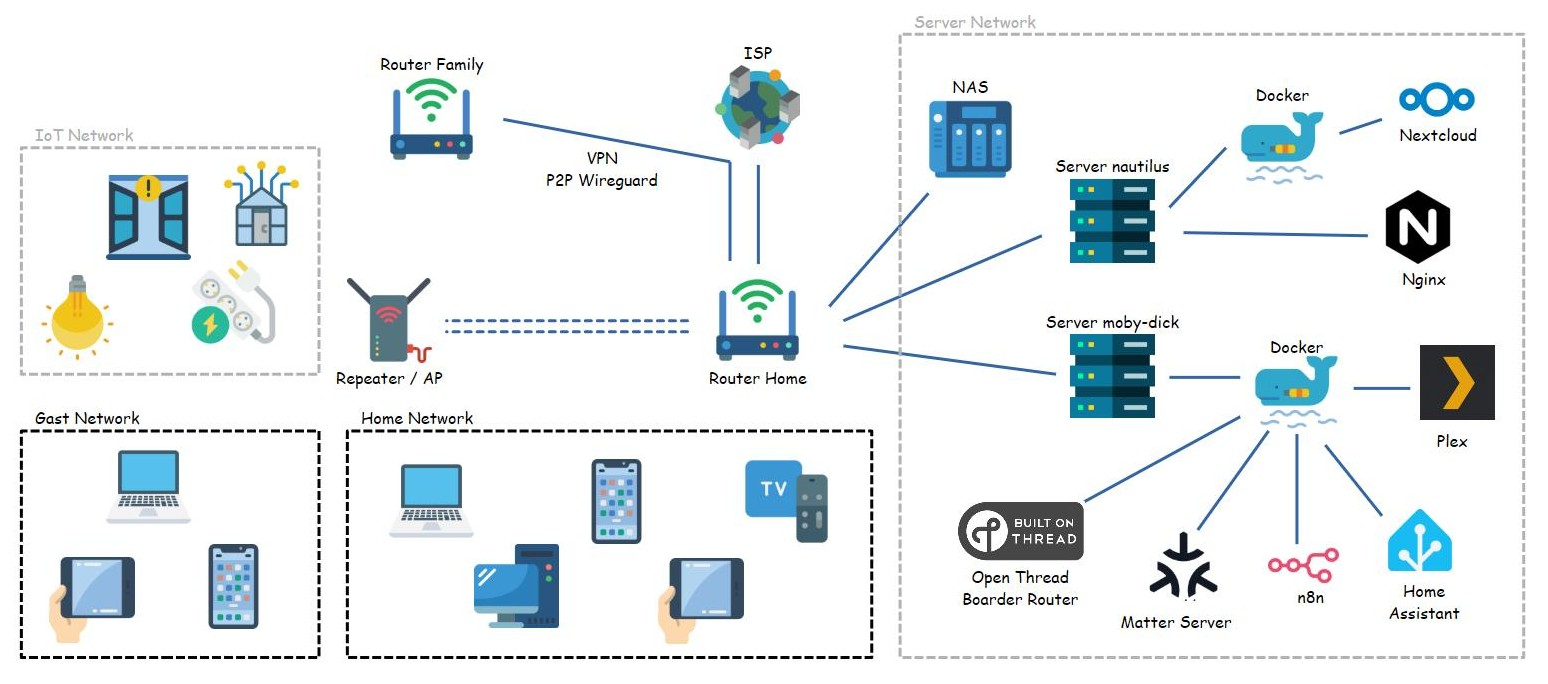
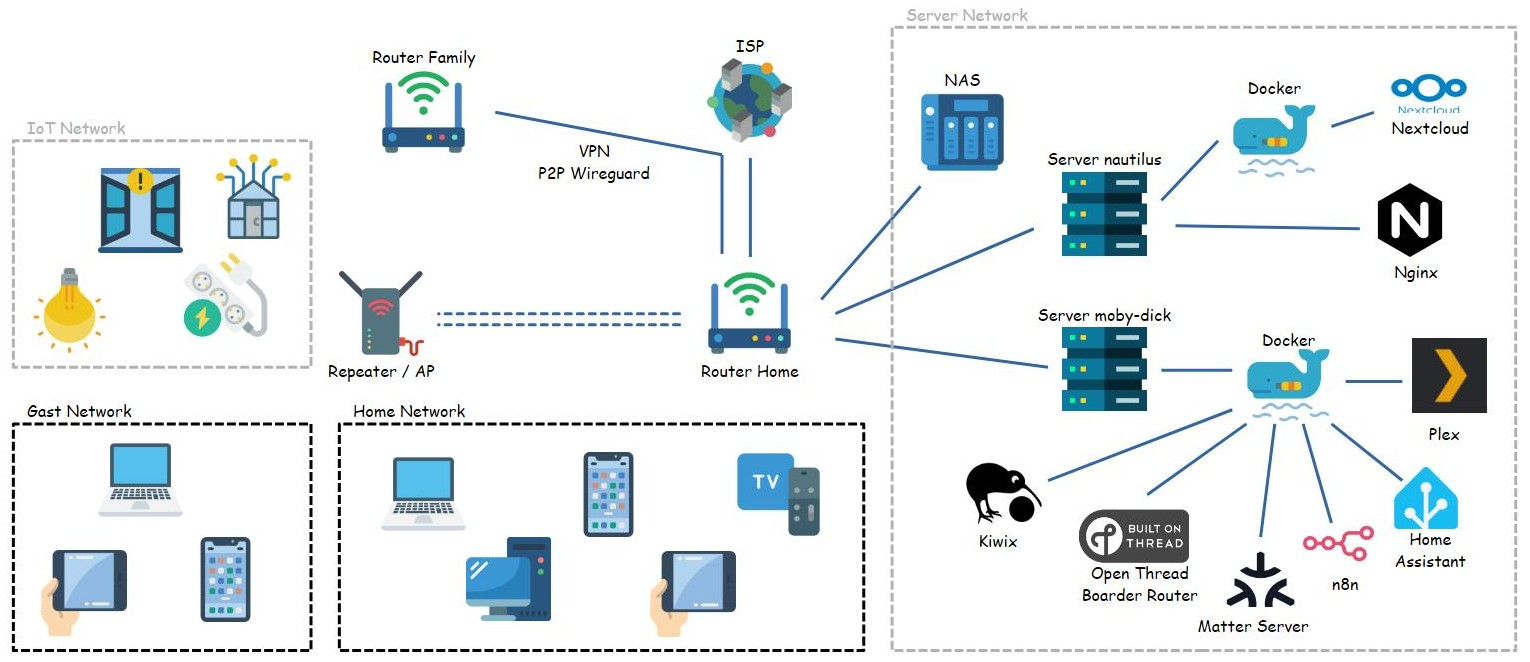
add kiwix to services

Changed region(s): [[0.0, 0.0, 1.0, 0.997], [0.2458, 0.0604, 0.3379, 0.2417]]

diff --git a/README.md b/README.md
@@ -11,7 +11,7 @@ Welcome to my HomeLab repository! Here you will find the documentation, configur
 | Device | Model/Specs | RAM | Storage | Services |
 | :--- | :--- | :--- | :--- | :--- | 
 | **Server nautilus** | TERRA_PC / Intel Celeron N3050 | 4 GB | 256 GB SSD | Nextcloud, Nginx |
-| **Server moby-dick** | ThinkPad 4291S7Y / Intel i5-2520M | 4 GB | 256 GB SSD | Homeassistant, Plex, n8n, Open Thread Boarder Router, Matter Server |
+| **Server moby-dick** | ThinkPad 4291S7Y / Intel i5-2520M | 4 GB | 256 GB SSD | Homeassistant, Plex, n8n, Open Thread Boarder Router, Matter Server, Kiwix |
 | **NAS Datenkrake** | QNAP TS-212P | 512 MB | 8 TB HDD in RAID 1 | Data Storage |
 
 ---
@@ -35,6 +35,7 @@ Here is a list of the main services running in my HomeLab (mostly via Docker)
 ### Media & Productivity
 - **[Nextcloud](https://nextcloud.com/)** - Personal Cloud Storage & Sync
 - **[Plex](https://www.plex.tv/)** - Media Server
+- **[Kiwix](https://kiwix.org)** - Offline Knowledge
 
 ### Smart Home & Monitoring
 - **[Home Assistant](https://www.home-assistant.io/)** - Smart Home Automation
